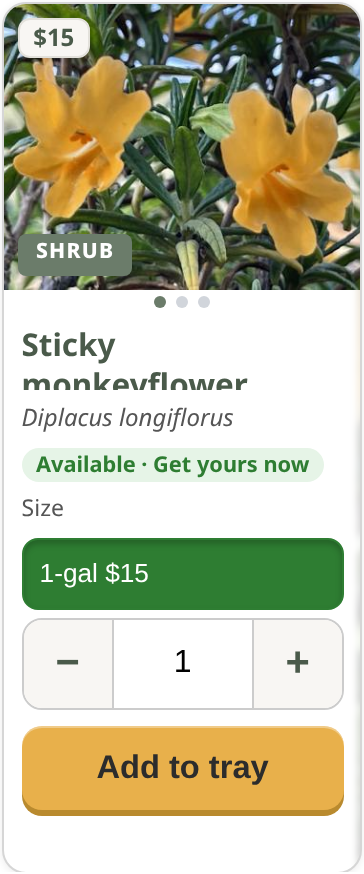
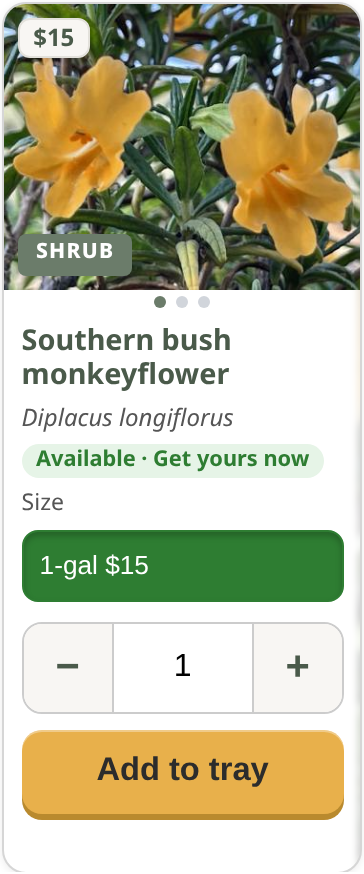
Rename to Southern bush monkeyflower (display override fallback, photo alias, pins, offline lists); dedupe same-name cards during sheet renames; screenshots

diff --git a/shop.js b/shop.js
@@ -546,7 +546,15 @@
     save();
   }
   var lastSig = null;
-  function use(l, msg, d, quick) { BASELINE = IENNStock.hasBaseline(d, l); PLANTS = sortPlants(IENNStock.view(l, IENNStock.hasBaseline(d, l)).filter(function (p) { return !(typeof iennHidden === "function" && iennHidden(p)); })).map(function (p) { var dn = typeof iennDisplayName === "function" && iennDisplayName(p.name); if (dn && dn !== p.name) { p.feedName = p.feedName || p.name; p.name = dn; } if (typeof iennDisplayBotanical === "function" && p.botanical) p.botanical = iennDisplayBotanical(p.botanical); return p; });   // display-name overrides; id/fullName keep the feed name for cart + orders
+  /* During a sheet rename the feed can briefly carry both the old row and the new one (e.g. "Sticky monkeyflower" and "Southern bush monkeyflower").
+     Both then show under the same display name: keep one card, preferring the row already named that way, then the one with stock. */
+  function dedupeShown(list) { var seen = {};
+    function stock(p) { return (p.sizes || []).reduce(function (t, z) { return t + (z.qty > 0 ? z.qty : 0); }, 0); }
+    list.forEach(function (p) { var k = String(p.name).toLowerCase(), o = seen[k];
+      if (!o || (o.feedName && !p.feedName) || (!!o.feedName === !!p.feedName && stock(p) > stock(o))) seen[k] = p; });
+    return list.filter(function (p) { return seen[String(p.name).toLowerCase()] === p; }); }
+  function use(l, msg, d, quick) { BASELINE = IENNStock.hasBaseline(d, l); PLANTS = sortPlants(IENNStock.view(l, IENNStock.hasBaseline(d, l)).filter(function (p) { return !(typeof iennHidden === "function" && iennHidden(p)); })).map(function (p) { var dn = typeof iennDisplayName === "function" && iennDisplayName(p.name); if (dn && dn !== p.name) { p.feedName = p.feedName || p.name; p.name = dn; } if (typeof iennDisplayBotanical === "function" && p.botanical) p.botanical = iennDisplayBotanical(p.botanical); return p; });
+    PLANTS = dedupeShown(PLANTS);   // display-name overrides; id/fullName keep the feed name for cart + orders
     if (!quick) { prefill(); reconcile(); }
     var sig = JSON.stringify([BASELINE, PLANTS]); if (sig !== lastSig) { lastSig = sig; render(); } else update();   // same data: keep the grid as is
     if (quick) return; status.textContent = msg || ""; status.hidden = !msg;

diff --git a/plant-photos.js b/plant-photos.js
@@ -1,7 +1,7 @@
 /* Plant photos (Eric-approved picks, see docs/photo-credits.md). Key = slug of the common name, matched case-insensitively.
    No entry => leaf placeholder. Woollypod milkweed now uses Eric's own iNaturalist photo (pending his approval). */
 var IENN_PHOTOS = ["white-sage","sticky-monkeyflower","narrow-leaf-milkweed","black-sage","california-buckwheat","california-encelia","california-poppy","desert-marigold","matilija-poppy","morning-glory","rock-monkeyflower","scarlet-bugler","showy-penstemon","sugarbush","yarrow","deergrass","showy-milkweed","yucca","toyon","woolly-blue-curls","sacred-datura","woollypod-milkweed","coyote-brush","bush-poppy","purple-sage","brittlebush","cleveland-sage","hummingbird-sage","california-sagebrush","california-fuchsia","arizona-cypress"];
-var IENN_PHOTO_ALIAS = { "datura": "sacred-datura", "narrowleaf-milkweed": "narrow-leaf-milkweed", "buckwheat": "california-buckwheat", "encelia": "california-encelia", "bush-sunflower": "california-encelia", "poppy": "california-poppy", "matilija": "matilija-poppy", "bunch-grass-deer": "deergrass", "deer-grass": "deergrass", "chaparral-yucca": "yucca", "our-lord-s-candle": "yucca", "monkeyflower": "sticky-monkeyflower", "penstemon": "showy-penstemon", "wild-morning-glory": "morning-glory", "island-morning-glory": "morning-glory", "california-brittlebush": "california-encelia", "arizona-cypress-blue-pyramid": "arizona-cypress" };
+var IENN_PHOTO_ALIAS = { "datura": "sacred-datura", "narrowleaf-milkweed": "narrow-leaf-milkweed", "buckwheat": "california-buckwheat", "encelia": "california-encelia", "bush-sunflower": "california-encelia", "poppy": "california-poppy", "matilija": "matilija-poppy", "bunch-grass-deer": "deergrass", "deer-grass": "deergrass", "chaparral-yucca": "yucca", "our-lord-s-candle": "yucca", "monkeyflower": "sticky-monkeyflower", "southern-bush-monkeyflower": "sticky-monkeyflower", "bush-monkeyflower": "sticky-monkeyflower", "penstemon": "showy-penstemon", "wild-morning-glory": "morning-glory", "island-morning-glory": "morning-glory", "california-brittlebush": "california-encelia", "arizona-cypress-blue-pyramid": "arizona-cypress" };
 /* Photos that need a visible attribution on the card (e.g. CC BY). */
 var IENN_PHOTO_CREDITS = {
  "deergrass": {

diff --git a/data/plant-basics.js b/data/plant-basics.js
@@ -77,7 +77,7 @@ var IENN_FORM = { Salvia:["Shrub","Fragrant bee magnet"], Eriogonum:["Shrub","To
   Dendromecon:["Shrub","Golden chaparral poppies"], Heteromeles:["Small tree","Red winter berries for birds"] };
 var IENN_FORM_SPECIES = { "Diplacus longiflorus":["Shrub",null], "Salvia apiana":[null,"Silvery leaves, tall bee-covered flower spikes"], "Salvia spathacea":["Perennial","Shade-loving hummingbird sage"], "Salvia mellifera":[null,"Honeybee favorite"],
   "Encelia farinosa":[null,"Silver desert sunshine"], "Eriogonum fasciculatum":[null,"Tough, long-blooming bee favorite"], "Baccharis pilularis":["Shrub","Tough evergreen groundcover"] };
-/* Old feed botanical -> species key (an older cached feed may still say aurantiacus for Sticky monkeyflower). */
+/* Old feed botanical -> species key (an older cached feed may still say aurantiacus for Southern bush monkeyflower, formerly "Sticky monkeyflower"). */
 var IENN_BASICS_ALIAS = { "Diplacus aurantiacus": "Diplacus longiflorus" };
 /* Look up basics for a botanical name, e.g. "Salvia apiana". Returns null if the genus is unknown. */
 function iennBasics(botanical) {
@@ -89,8 +89,9 @@ function iennBasics(botanical) {
   return out;
 }
 /* Display-name overrides: feed name (matching/orders unchanged) -> name shown on the site. */
-var IENN_DISPLAY_NAMES = { "Sacred datura": "Datura" };
-function iennDisplayName(n) { return IENN_DISPLAY_NAMES[n] || n; }
+var IENN_DISPLAY_NAMES = { "Sacred datura": "Datura", "Sticky monkeyflower": "Southern bush monkeyflower" };   // keys match case-insensitively
+function iennDisplayName(n) { if (IENN_DISPLAY_NAMES[n]) return IENN_DISPLAY_NAMES[n]; var k = String(n || "").toLowerCase().trim();
+  for (var x in IENN_DISPLAY_NAMES) if (x.toLowerCase() === k) return IENN_DISPLAY_NAMES[x]; return n; }
 /* Botanical-name overrides (exact species, case-insensitive): feed botanical -> name shown on the site and used for basics.
    The live feed now says Diplacus longiflorus (fixed in the sheet 2026-10-24); this only covers an older feed cached in a visitor's browser. */
 var IENN_DISPLAY_BOTANICAL = { "diplacus aurantiacus": "Diplacus longiflorus" };

diff --git a/shop-settings.js b/shop-settings.js
@@ -15,7 +15,7 @@ var ON_REQUEST = "Available on request";   // 2" and Tree pot (not counted yet)
 var CONTACT_PHONE = "(909) 609-9373", CONTACT_TEL = "+19096099373";   // Andrew, call/text fallback
 /* Appeal sort (earlier keyword = shown first); plants with stock come first, not available last. */
 /* Default order (an explicit feed/sheet rank still wins): popular + colorful first. */
-var APPEAL_KEYWORDS = ["white sage", "salvia apiana", "sticky monkeyflower", "diplacus aurantiacus", "diplacus longiflorus", "rock monkeyflower", "diplacus calycinus",
+var APPEAL_KEYWORDS = ["white sage", "salvia apiana", "sticky monkeyflower", "southern bush monkeyflower", "diplacus aurantiacus", "diplacus longiflorus", "rock monkeyflower", "diplacus calycinus",
   "monkeyflower", "mimulus", "diplacus", "california poppy", "eschscholzia", "showy penstemon", "penstemon spectabilis", "scarlet bugler",
   "penstemon centranthifolius", "matilija", "romneya", "milkweed", "asclepias", "penstemon", "poppy", "sage", "salvia", "buckwheat", "eriogonum",
   "lupine", "lupinus", "woolly blue curls", "trichostema", "ceanothus", "lilac", "yarrow", "achillea", "verbena", "aster", "fuchsia", "epilobium",
@@ -24,7 +24,7 @@ var APPEAL_KEYWORDS = ["white sage", "salvia apiana", "sticky monkeyflower", "di
 var FALLBACK_PLANTS = [
   { name: "Blue Pyramid Cypress", sizes: ['1 gal'] },
   { name: "Woolly Blue Curls",    sizes: ['4"'] },
-  { name: "Sticky Monkeyflower",  botanical: "Diplacus longiflorus", sizes: ['1 gal'] },
+  { name: "Southern bush monkeyflower", botanical: "Diplacus longiflorus", sizes: ['1 gal'] },
   { name: "Yarrow",               sizes: ['4"'] }
 ];
 var ORDER_EMAIL = "plants@inlandempirenativenursery.com"; // mailto fallback only if the order endpoint fails

diff --git a/index.html b/index.html
@@ -140,7 +140,7 @@
     .ig-top { min-width:44px; flex-shrink:0; justify-content:center; color:var(--sage-dark); font-weight:600; font-size:0.85rem; text-decoration:none; }
     @media (max-width: 480px) { .ig-top-text { display:none; } .ig-top svg { width:22px; height:22px; } }
   </style>
-  <link rel="stylesheet" href="shop.css?v=fecf306">
+  <link rel="stylesheet" href="shop.css?v=642b5e8">
   <style>
     .shop { max-width:1080px; margin:0 auto; padding:0; }
     .shop .inv-status[hidden] { display:none; }
@@ -271,13 +271,13 @@
     <p style="margin-top:0.5rem;font-size:0.75rem;"><a href="credits.html">Photo credits</a></p>
   </footer>
   <script>window.IENN_PROMO_OPTS = { cta: "Shop now", onShop: function () { var g = document.getElementById("plant-list"); if (g) g.scrollIntoView({ behavior: "smooth" }); } };</script>
-  <script src="promo.js?v=fecf306"></script>
-  <script src="plant-photos.js?v=fecf306"></script>
-  <script src="feed-order.js?v=fecf306"></script>
-  <script src="stock-view.js?v=fecf306"></script>
-  <script src="shop-settings.js?v=fecf306"></script>
-  <script src="data/plant-basics.js?v=fecf306"></script>
-  <script src="shop.js?v=fecf306"></script>
+  <script src="promo.js?v=642b5e8"></script>
+  <script src="plant-photos.js?v=642b5e8"></script>
+  <script src="feed-order.js?v=642b5e8"></script>
+  <script src="stock-view.js?v=642b5e8"></script>
+  <script src="shop-settings.js?v=642b5e8"></script>
+  <script src="data/plant-basics.js?v=642b5e8"></script>
+  <script src="shop.js?v=642b5e8"></script>
   <script>document.getElementById("printlist-link").href = APPS_SCRIPT_URL + "?view=print";</script>
-  <script src="site-links.js?v=fecf306"></script>
+  <script src="site-links.js?v=642b5e8"></script>
 </body></html>

diff --git a/order.html b/order.html
@@ -12,7 +12,7 @@
 <link rel="icon" type="image/png" sizes="192x192" href="/favicon-192.png">
 <link rel="apple-touch-icon" sizes="180x180" href="/apple-touch-icon.png">
 <link rel="manifest" href="/site.webmanifest">
-  <link rel="stylesheet" href="shop.css?v=fecf306">
+  <link rel="stylesheet" href="shop.css?v=642b5e8">
   <style>
     :root { --lilac:#d4c4e0; --sage:#6b7c6a; --sage-dark:#4a5a4a; --cream:#f8f6f3; --red:#c0392b; --text:#2c2c2c; --green:#2e7d32; }
     * { box-sizing:border-box; margin:0; padding:0; }
@@ -261,14 +261,14 @@
     <a href="credits.html" style="font-size:0.75rem;">Photo credits</a>
   </footer>
 
-  <script src="plant-photos.js?v=fecf306"></script>
-  <script src="stock-view.js?v=fecf306"></script>
-  <script src="feed-order.js?v=fecf306"></script>
-  <script src="shop-settings.js?v=fecf306"></script>
-  <script src="data/plant-basics.js?v=fecf306"></script>
-  <script src="shop.js?v=fecf306"></script>
+  <script src="plant-photos.js?v=642b5e8"></script>
+  <script src="stock-view.js?v=642b5e8"></script>
+  <script src="feed-order.js?v=642b5e8"></script>
+  <script src="shop-settings.js?v=642b5e8"></script>
+  <script src="data/plant-basics.js?v=642b5e8"></script>
+  <script src="shop.js?v=642b5e8"></script>
   <script>window.IENN_PROMO_OPTS = { cta: "Shop now", onShop: function () { var g = document.getElementById("plant-list"); if (g) { g.scrollIntoView({ behavior: "smooth" }); var b = g.querySelector("button:not([disabled])"); if (b) b.focus({ preventScroll: true }); } } };</script>
-  <script src="promo.js?v=fecf306"></script>
-  <script src="site-links.js?v=fecf306"></script>
+  <script src="promo.js?v=642b5e8"></script>
+  <script src="site-links.js?v=642b5e8"></script>
 </body>
 </html>

diff --git a/inventory.js b/inventory.js
@@ -25,13 +25,13 @@ function ienNormSize(s) {
 }
 function ienPrice(size) { var z = ienNormSize(size); return z ? IENN_SIZE_PRICES[z] : null; }
 var IENN_LOW_STOCK = 5;          // qty at or below this => "Low stock"
-var IENN_PINNED = [/salvia apiana|white sage/i, /sticky monkey ?flower|diplacus (aurantiacus|longiflorus)/i, /rock monkey ?flower|diplacus calycinus/i, /diplacus|mimulus|monkey ?flower/i,
+var IENN_PINNED = [/salvia apiana|white sage/i, /sticky monkey ?flower|southern bush monkey ?flower|diplacus (aurantiacus|longiflorus)/i, /rock monkey ?flower|diplacus calycinus/i, /diplacus|mimulus|monkey ?flower/i,
   /california poppy|eschscholzia/i, /showy penstemon|penstemon spectabilis/i, /scarlet bugler|centranthifolius/i, /matilija|romneya/i, /milkweed|asclepias/i]; // shown first (sheet rank still wins)
 var IENN_COLORFUL = /flower|bloom|curls|poppy|penstemon|salvia|sage|lupin|ceanothus|buckwheat|yarrow|milkweed|aster|primrose|verbena|iris|fuchsia|gilia|phacelia|clarkia/i;
 
 /* MARKED FALLBACK ONLY: names/sizes from existing site copy; stock unknown, no prices. */
 var IENN_FALLBACK = [
-  { name: "Sticky Monkeyflower", botanical: "Diplacus longiflorus", sizes: [{ size: "1-gallon" }] },
+  { name: "Southern bush monkeyflower", botanical: "Diplacus longiflorus", sizes: [{ size: "1-gallon" }] },
   { name: "Woolly Blue Curls", botanical: "Trichostema lanatum", sizes: [{ size: "4-inch" }] },
   { name: "Yarrow", botanical: "Achillea millefolium", sizes: [{ size: "4-inch" }] },
   { name: "Blue Pyramid Cypress", botanical: "Cupressus arizonica 'Blue Pyramid'", sizes: [{ size: "1-gallon" }] }

diff --git a/docs/factcheck-2026-10-24.md b/docs/factcheck-2026-10-24.md
@@ -1,4 +1,4 @@
-# Plant basics fact-check, 2026-10-24: Sticky monkeyflower → *Diplacus longiflorus*
+# Plant basics fact-check, 2026-10-24: Sticky monkeyflower → Southern bush monkeyflower (*Diplacus longiflorus*)
 
 Eric confirmed the stock sold as "Sticky monkeyflower" is *Diplacus longiflorus*, not *D. aurantiacus*. Lobo updated the sheet, so the live feed now sends
 "Sticky monkeyflower (Diplacus longiflorus)". The frontend data was keyed and updated to match (`data/plant-basics.js` species entry
@@ -33,3 +33,8 @@ Photo (`assets/plants/sticky-monkeyflower.jpg`, Eric's catalogue photo `photos/s
 ## Also hidden 2026-10-24
 Cleveland sage (*Salvia clevelandii*), Purple sage (*S. leucophylla*), Hummingbird sage (*S. spathacea*) and the "Other" feed row (no botanical) are hidden
 from the shop by exact name and exact species. Black sage and White sage stay visible.
+
+## Common name (2026-10-24)
+Calscape, Calflora and USDA PLANTS all use "Southern bush monkeyflower" as the standard name for *D. longiflorus*. Eric chose to rename it on the site.
+The live feed now sends "Southern bush monkeyflower (Diplacus longiflorus)". The frontend keeps a fallback display override (`IENN_DISPLAY_NAMES`, case-insensitive)
+for any old cached feed. The photo alias (`southern-bush-monkeyflower` → `sticky-monkeyflower.jpg`) and the pin/sort keywords work with either name.
